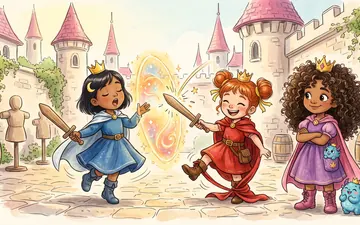
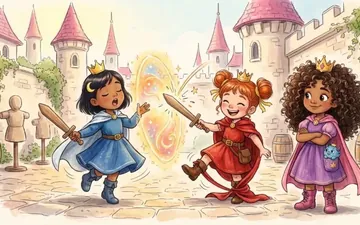
Book 3: practice painting with just one Tiny Grumbo

diff --git a/js/books/scorch.story.js b/js/books/scorch.story.js
@@ -23,7 +23,7 @@
     {
       "id": "practice", "title": "Sword Practice", "chapter": { "n": 1, "title": "Smoke on the Hill" },
       "scene": "practice", "fx": "sparkles",
-      "alt": "In a sunny castle courtyard, Sophia, Ruby and Luna practice a sword dance. Luna's song makes a shining shield, and Tiny Grumbo claps from Sophia's pocket.",
+      "alt": "In a sunny castle courtyard, Sophia, Ruby and Luna practice a sword dance. Luna's song makes a shining shield, and Tiny Grumbo peeks out of Sophia's pocket.",
       "text": [
         "The morning sun poured over Sparkleton like honey, turning every rooftop and tower bright enough to make you squint. Flags snapped in the breeze. Bakers called out from their windows. And in the castle courtyard, three friends danced in a circle of light, their wooden practice swords flashing. {sfx:clang|CLACK!} Spin. {sfx:twinkle|SPARKLE!}",
         "They were the Sparkle Swords, the bravest band in the whole Kingdom of Sparkleton. Princess Luna could sing a note so pure it turned into a shield of light. Princess Ruby could drum a beat so loud it made the mountains hum. And Princess Sophia had a magic sword that sang whenever she swung it.",
